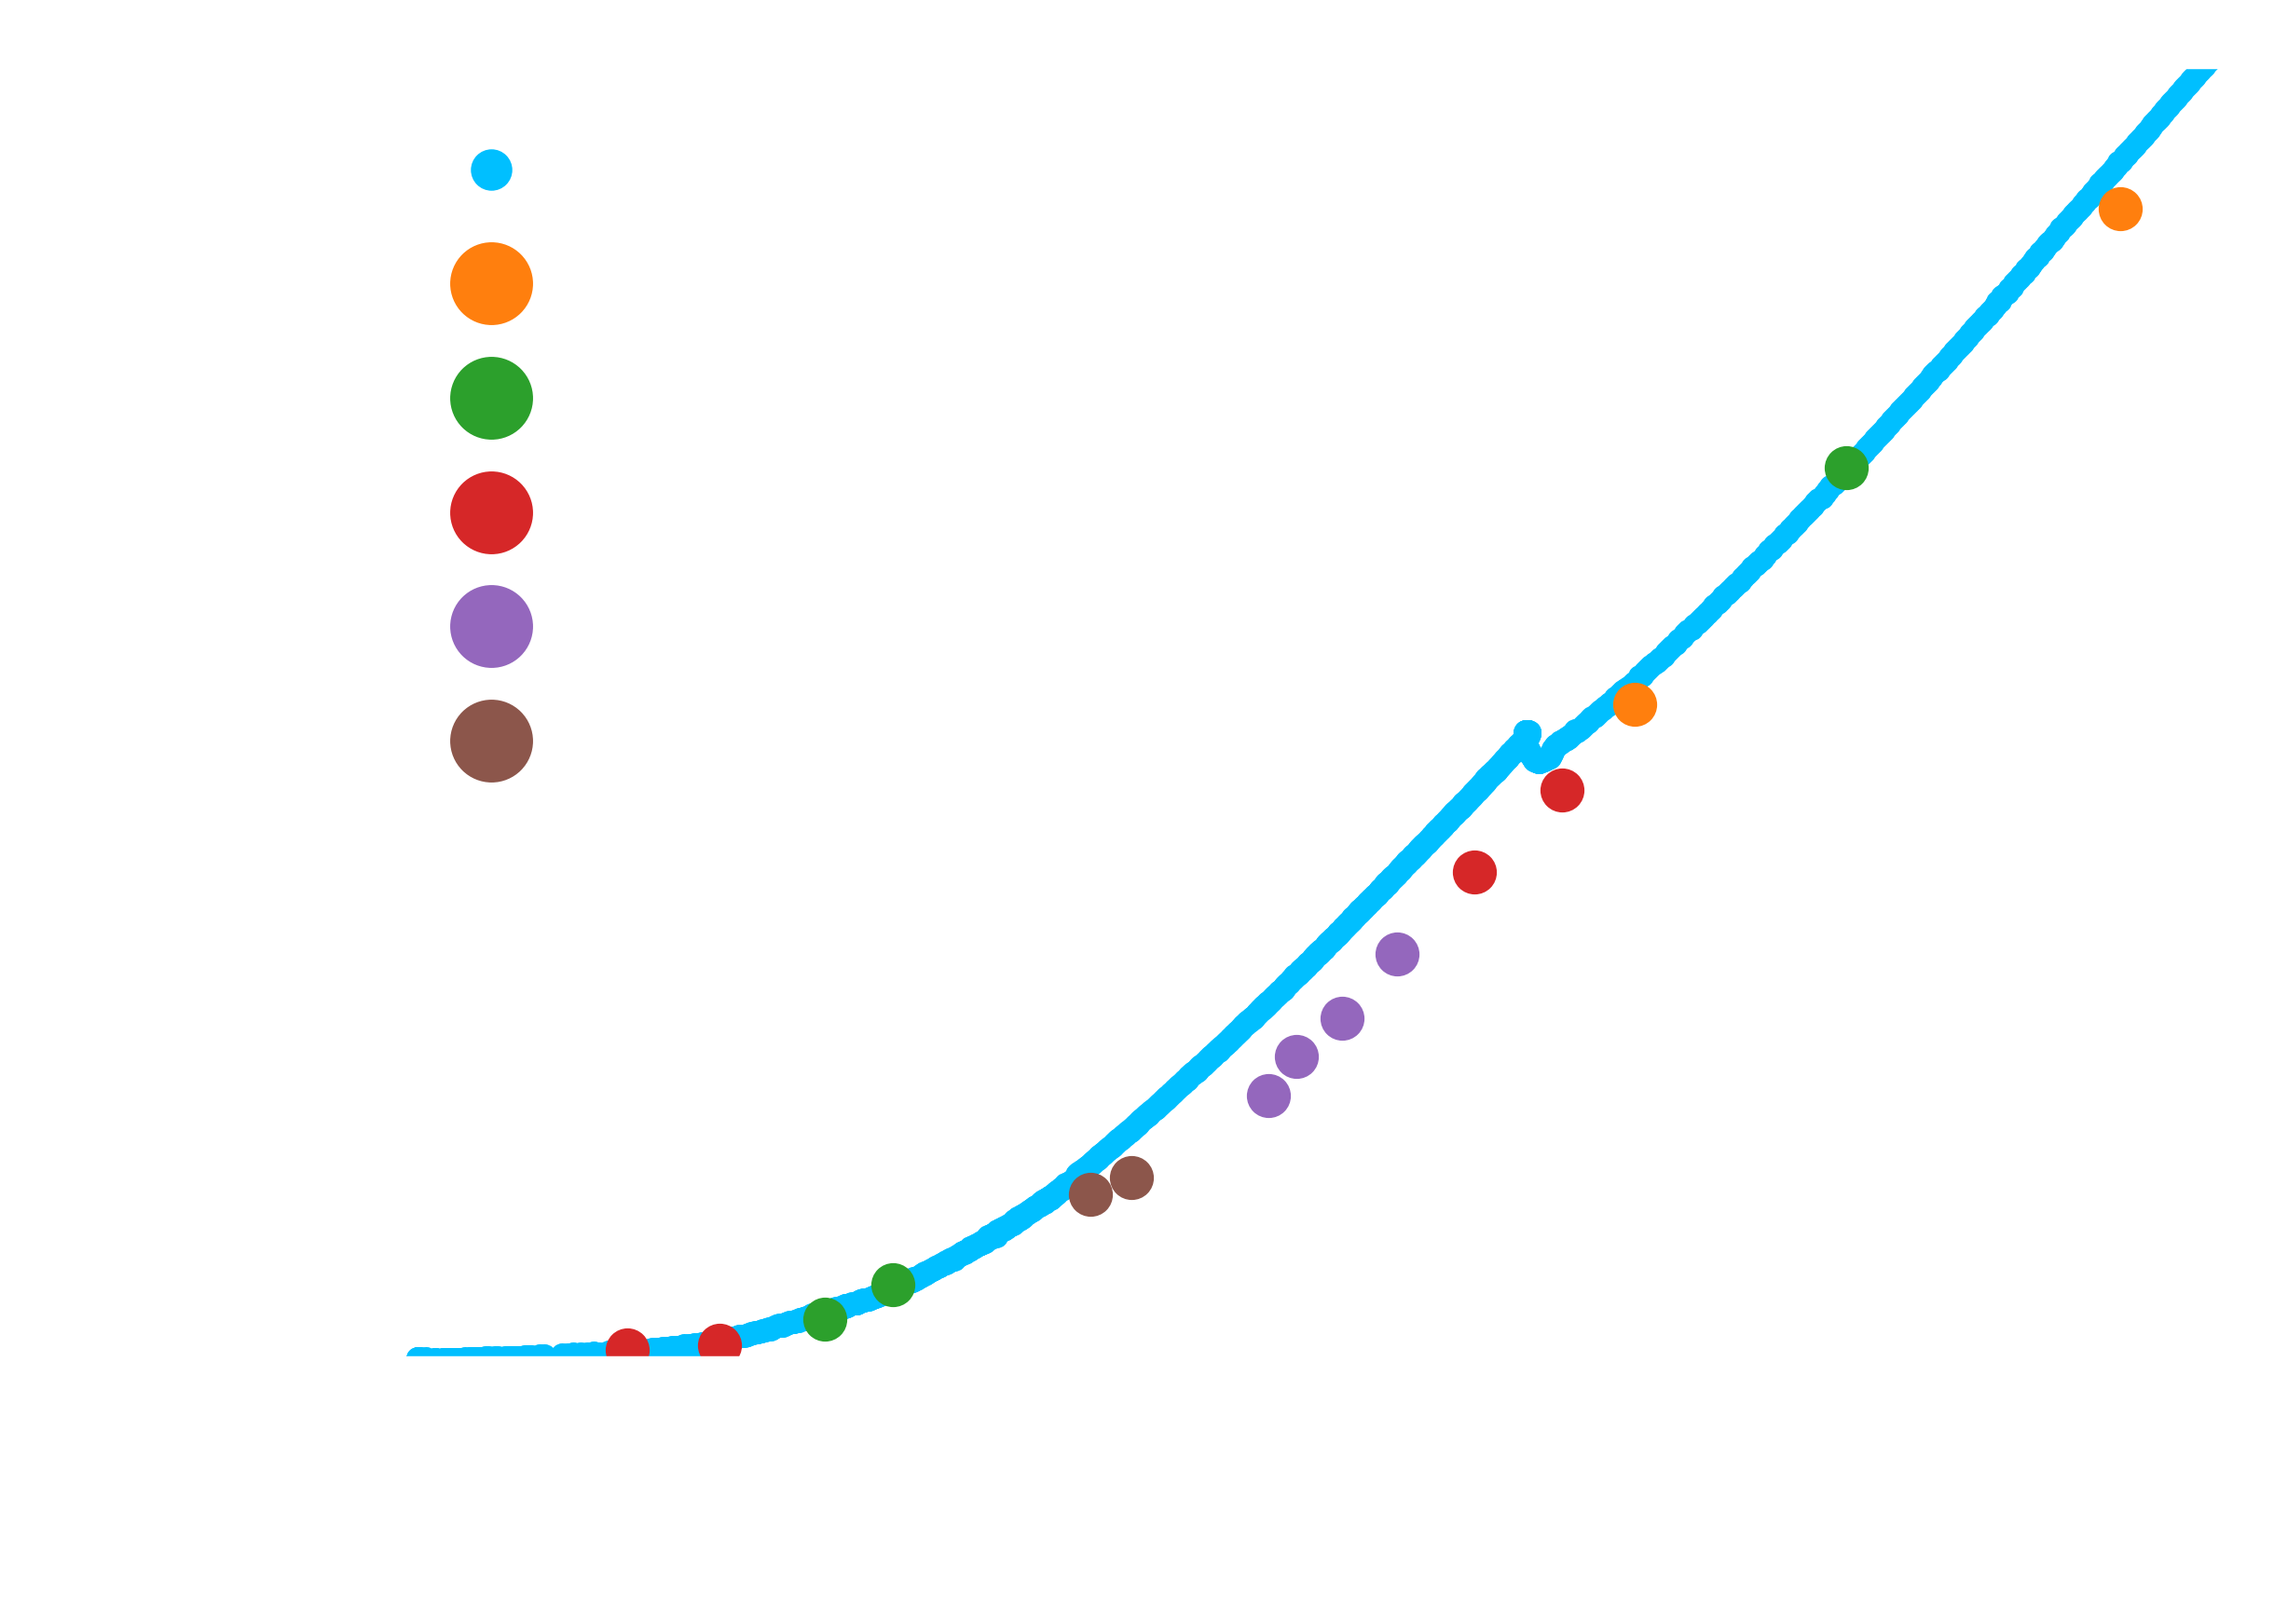
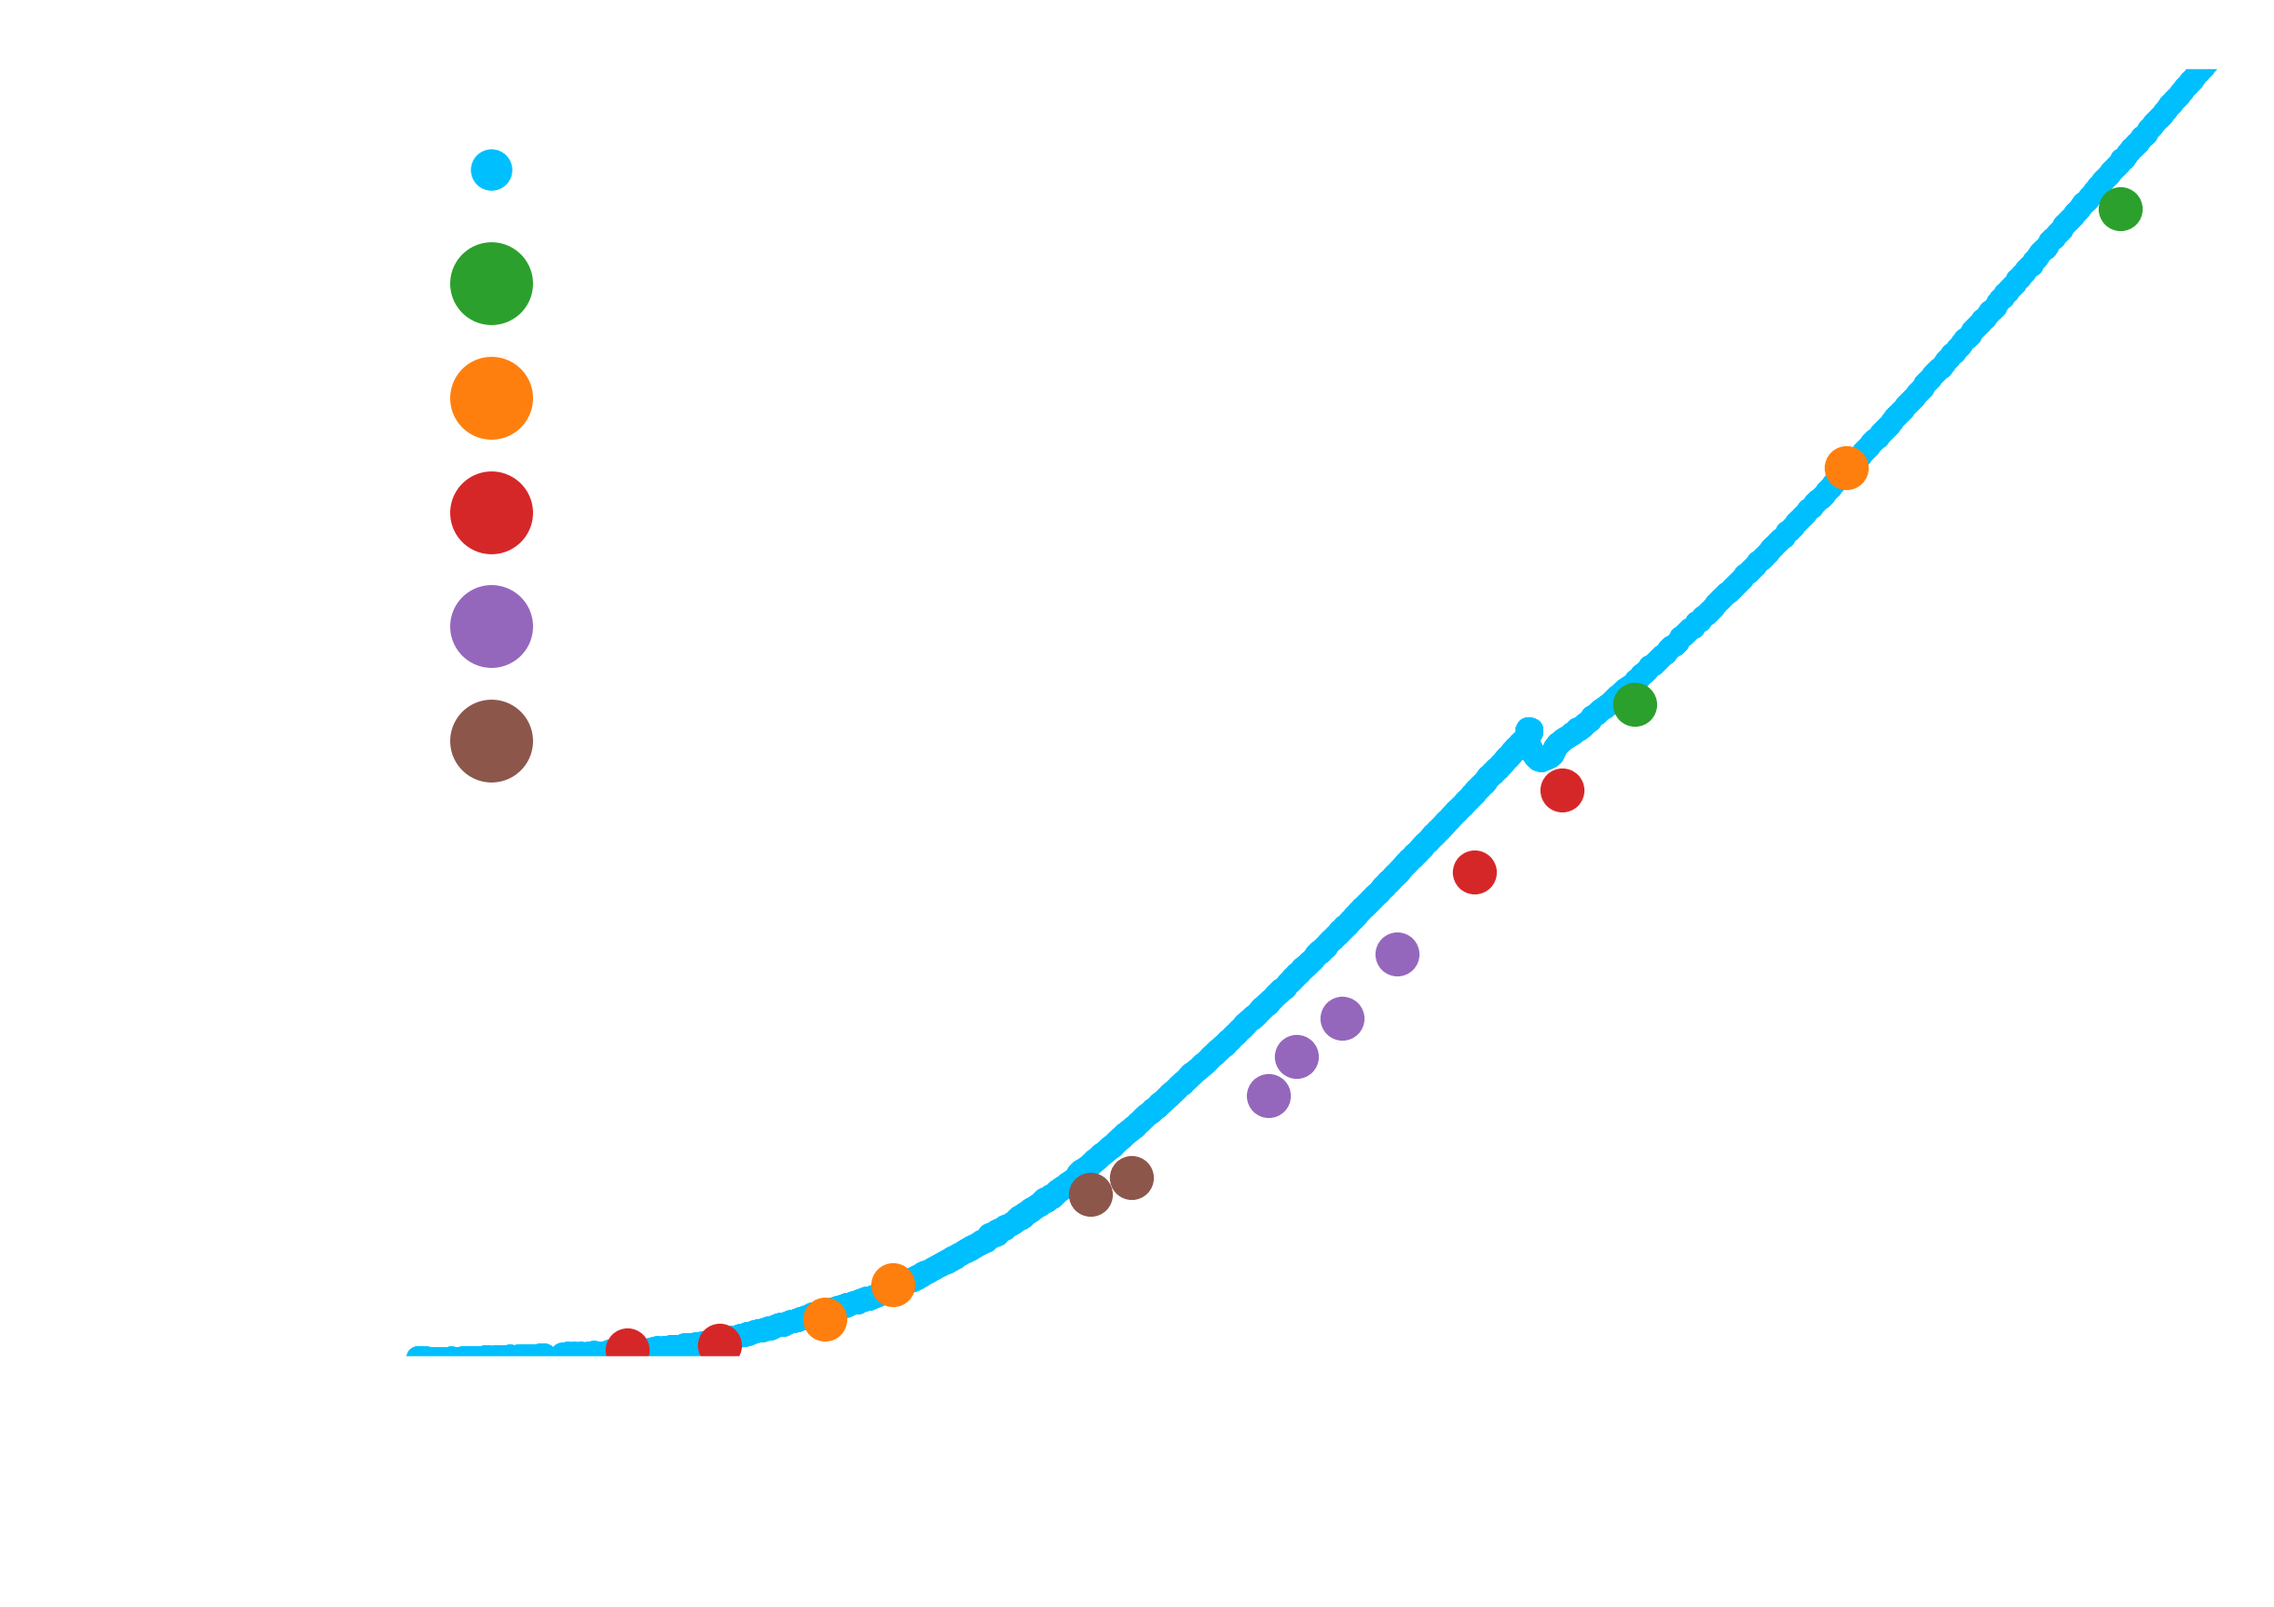
x

diff --git a/script6.py b/script6.py
@@ -138,10 +138,10 @@ class run:
 		# fitting the T^3 function
 		fit_range3 = [0,1500]
 		
-		fit_parameters = [["a" ,"b", "c"],   
-										  [ 1e-5,		 -0.01, 0.1],		  # max bounds
-										  [2e-6,   -4.2, 0.07],		# start values
-										  [1e-6, -10, 0]]		 # min bounds
+		fit_parameters = [["a" ,   "b", "Rr"],   
+										  [ 1e-5,-0.01,  0.1],		  # max bounds
+										  [2e-6,  -4.2, 0.07],		# start values
+										  [1e-8,   -10,    0]]		 # min bounds
 		
 		popt, pcov = curve_fit(func1, T[fit_range3[0]:fit_range3[1]], R_P_1[fit_range3[0]:fit_range3[1]], fit_parameters[2], bounds=(fit_parameters[3],fit_parameters[1]))
 		
@@ -176,13 +176,15 @@ class run:
 		print(r"Resistance of Cu over Temperature")
 		fig = plt.figure(figsize=self.figsize, dpi=80).add_subplot(1, 1, 1)
 		plt.plot(T,R_P_1,'.',  label=r'$R_{Cu}$', color = "deepskyblue", markersize=self.markersize)
-		plt.plot(T[fit_range3[0]:fit_range3[1]], func1(T[fit_range3[0]:fit_range3[1]], *popt1), 'r--', label=r"Fit: $R = a\cdot(T+b)^3 + c$"+"\n"+r"$\Rightarrow$ R(4.2K)={:.4}$\Omega$".format(K_1), linewidth=self.linewidth_fit)
-		plt.plot(T[fit_range[0]:fit_range[1]], lin(T[fit_range[0]:fit_range[1]], *popt2), '--', color="tab:orange", label=r"Lin. Fit: $R = m\cdot T + n$"+"\n"+r"$\Rightarrow$ R(300K)={:.4}$\Omega$".format(K_2), linewidth=self.linewidth_fit)
+		plt.plot(T[fit_range3[0]:fit_range3[1]], func1(T[fit_range3[0]:fit_range3[1]], *popt1), 'r--', label=r"Fit: $R = a\cdot T^3 + R_R$"+"\n"+r"$R_R={:.3}\Omega$".format(popt1[2]), linewidth=self.linewidth_fit)
+		#+"\n"+r"$\Rightarrow$ R(4.2K)={:.4}$\Omega$".format(K_1)
+		plt.plot(T[fit_range[0]:fit_range[1]], lin(T[fit_range[0]:fit_range[1]], *popt2), '--', color="tab:orange", label=r"Lin. Fit: $R = m\cdot T + n$"+"\n"+r"m={:.3}$\Omega$/K".format(popt2[0])+"\n"+r"n={:.4}$\Omega$".format(popt2[1]), linewidth=self.linewidth_fit)
+		#+"\n"+r"$\Rightarrow$ R(300K)={:.4}$\Omega$".format(K_2)
 		plt.xlabel(r"Temperatur T / K")
 		plt.ylabel(r"Widerstand R / $\Omega$")
 		plt.legend(markerscale=2)
 		plt.xlim(0, None)
-		plt.ylim(0, 3.5)
+		plt.ylim(0, 3.8)
 		maximize()
 		plt.savefig(self.export_folder+"R_Cu(T)_T_Fit"+self.export_extension, bbox_inches='tight', dpi=self.dpi)
 		plt.show()
@@ -229,8 +231,8 @@ class run:
 		print(r"Reduced Resistivity of Cu over reduced Temperature")
 		fig = plt.figure(figsize=self.figsize, dpi=80).add_subplot(1, 1, 1)
 		plt.plot(rho[0], rho[1],'.', label=r'Cu-Probe', color = "deepskyblue", markersize=self.markersize)
-		plt.plot(Na_T, Na_R,'.', color="tab:orange", label='Na', markersize=self.markersize2)
-		plt.plot(Au_T, Au_R,'.', color="tab:green", label='Au', markersize=self.markersize2)
+		plt.plot(Na_T, Na_R,'.', color="tab:green", label='Na', markersize=self.markersize2)
+		plt.plot(Au_T, Au_R,'.', color="tab:orange", label='Au', markersize=self.markersize2)
 		plt.plot(Cu_T, Cu_R,'.', color="tab:red", label='Cu', markersize=self.markersize2)
 		plt.plot(Al_T, Al_R,'.', color="tab:purple", label='Al', markersize=self.markersize2)
 		plt.plot(Ni_T, Ni_R,'.', color="tab:brown", label='Ni', markersize=self.markersize2)
